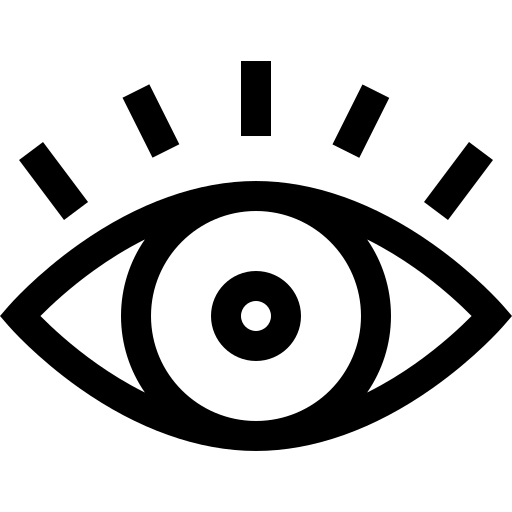
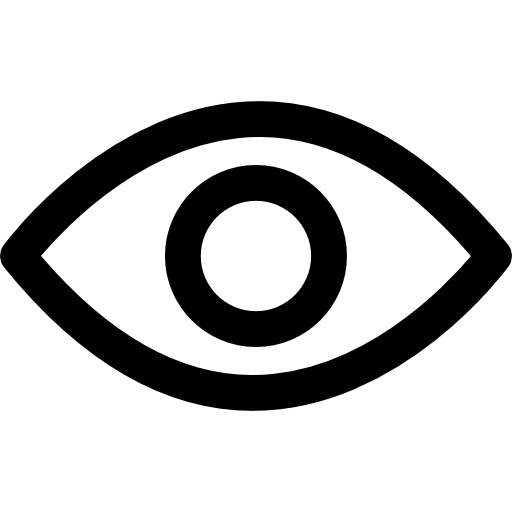
affichage et cacher mode passe

diff --git a/src/main/webapp/css/connexion.css b/src/main/webapp/css/connexion.css
@@ -29,6 +29,7 @@ form {
 
 input[type="email"],
 input[type="password"],
+input[type="text"],
 input[type="submit"] {
     width: 100%;
     padding: 10px;
@@ -74,4 +75,19 @@ a:hover {
     vertical-align: middle;
     margin-right: 5px;
     width: 20px;
+}
+
+.password-group {
+    position: relative;
+}
+.password-eye{
+    position: absolute;
+    top: 33%;
+    right: 10px;
+    transform: translateY(-50%);
+    width: 25px;
+    height: 25px;
+    background-image: url('/ReservationRestaurant/img/oeil(1).png'); 
+    background-size: cover;
+    cursor: pointer;
 }

diff --git a/src/main/webapp/javascript/afficherCacherPS.js b/src/main/webapp/javascript/afficherCacherPS.js
@@ -1,0 +1,13 @@
+function togglePasswordVisibility() {
+    var passwordInput = document.getElementById("password");
+    var passwordEye = document.querySelector(".password-eye");
+
+    if (passwordInput.type === "password") {
+        passwordInput.type = "text";
+        passwordEye.style.backgroundImage = "url('/ReservationRestaurant/img/oeilFerme.png')"; 
+      
+    } else {
+        passwordInput.type = "password";
+        passwordEye.style.backgroundImage = "url('/ReservationRestaurant/img/oeil(1).png')";
+    }
+}

diff --git a/src/main/webapp/css/inscription.css b/src/main/webapp/css/inscription.css
@@ -81,3 +81,17 @@ a:hover {
 	width: 20px;
 
 }
+.password-group {
+    position: relative;
+}
+.password-eye{
+    position: absolute;
+    top: 33%;
+    right: 10px;
+    transform: translateY(-50%);
+    width: 25px;
+    height: 25px;
+    background-image: url('/ReservationRestaurant/img/oeil(1).png'); 
+    background-size: cover;
+    cursor: pointer;
+}
